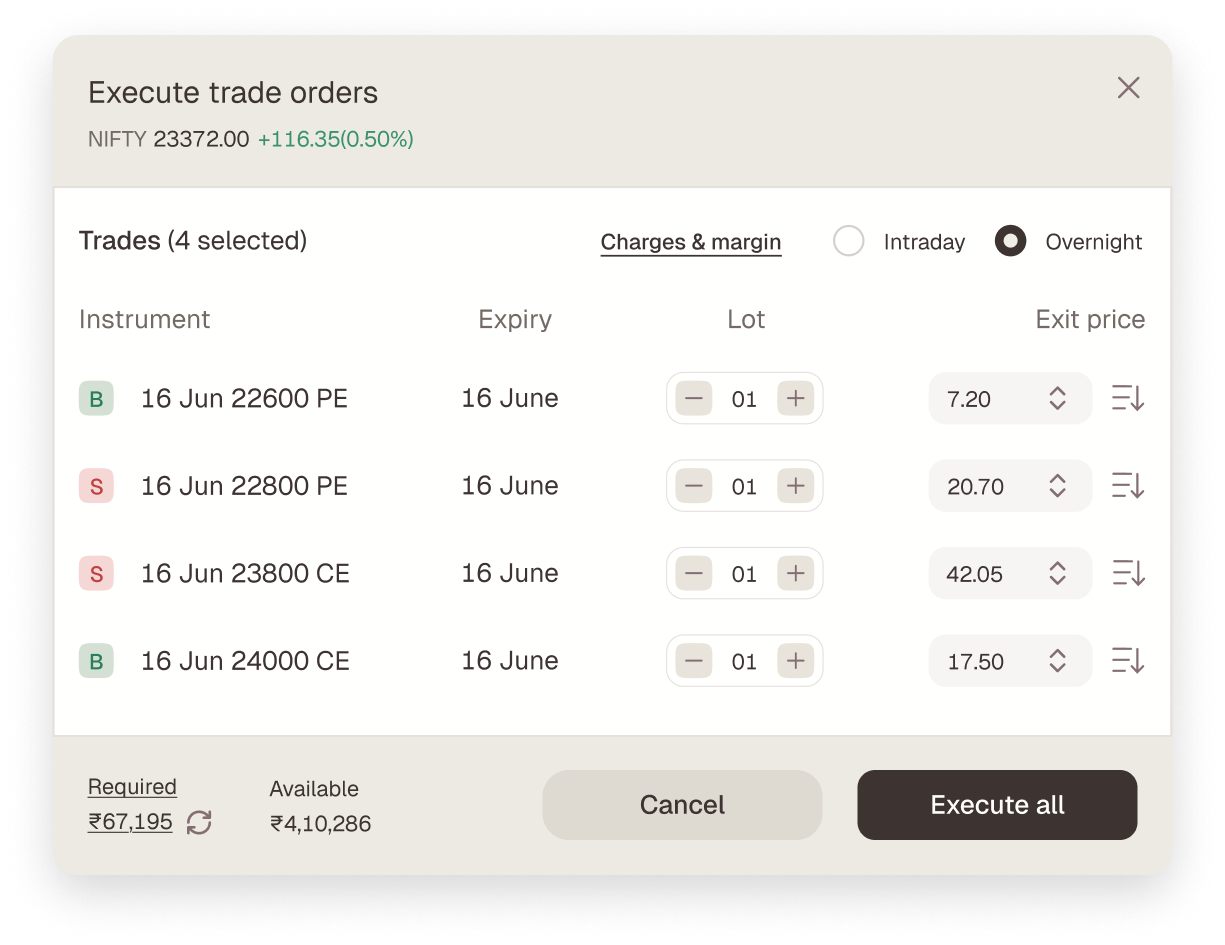
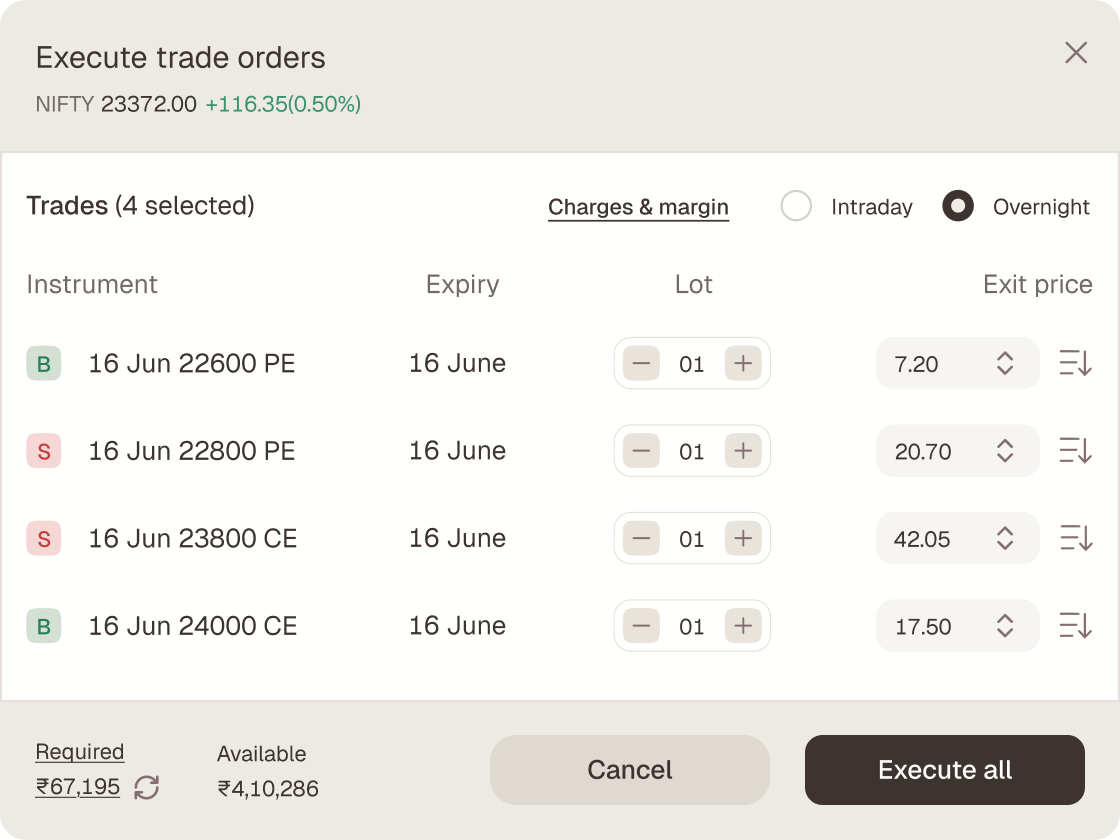
Strategy builder: execute review and order status cards without the drop shadow

diff --git a/projects/strategy-builder.html b/projects/strategy-builder.html
@@ -17,7 +17,7 @@
 <link href="https://fonts.googleapis.com/css2?family=Geist:wght@400;500;600&family=Inter:wght@400;500;600&family=Work+Sans:wght@400;500;600&display=swap" rel="stylesheet">
 
 <link rel="stylesheet" href="../assets/styles.css?v=29">
-<link rel="stylesheet" href="../assets/strategy-builder.css?v=17">
+<link rel="stylesheet" href="../assets/strategy-builder.css?v=18">
 </head>
 <body class="sb case-study">
 
@@ -613,14 +613,14 @@
       <div class="sb-shots-2">
         <figure class="sb-fig"><div class="sb-shot sb-shot--contain">
           <div class="sb-shot__inner" style="--sb-ar: 5 / 4">
-            <img src="../assets/img/strategy-builder/execute-review.png?v=3" alt="Execute trade orders: four NIFTY legs with lots and exit prices, intraday or overnight, required and available margin, and Cancel or Execute all." width="1225" height="945" loading="lazy" decoding="async">
+            <img src="../assets/img/strategy-builder/execute-review.png?v=4" alt="Execute trade orders: four NIFTY legs with lots and exit prices, intraday or overnight, required and available margin, and Cancel or Execute all." width="1120" height="840" loading="lazy" decoding="async">
           </div>
           </div>
           <figcaption class="sb-cap">Review before anything is placed</figcaption>
         </figure>
         <figure class="sb-fig"><div class="sb-shot sb-shot--contain">
           <div class="sb-shot__inner" style="--sb-ar: 5 / 4">
-            <img src="../assets/img/strategy-builder/execute-track.png?v=3" alt="Strategy order status: each leg with its status, completed or partly completed, and Modify or Cancel on open orders." width="1166" height="968" loading="lazy" decoding="async">
+            <img src="../assets/img/strategy-builder/execute-track.png?v=4" alt="Strategy order status: each leg with its status, completed or partly completed, and Modify or Cancel on open orders." width="1060" height="863" loading="lazy" decoding="async">
           </div>
           </div>
           <figcaption class="sb-cap">Then every order, tracked</figcaption>

diff --git a/assets/strategy-builder.css b/assets/strategy-builder.css
@@ -583,6 +583,9 @@
 .sb-shots-2 { display: grid; gap: 16px; grid-template-columns: 1fr; }
 @media (min-width: 768px) { .sb-shots-2 { grid-template-columns: 1fr 1fr; } }
 .sb-shot--contain img { object-fit: contain; }
+/* The modals are exported without their drop shadow, so the inner box
+   keeps the breathing room the shadow used to give them. */
+.sb-shot--contain .sb-shot__inner { padding: 6%; box-sizing: border-box; }
 .sb-cap {
   margin-top: 10px;
   font-size: 14px;
